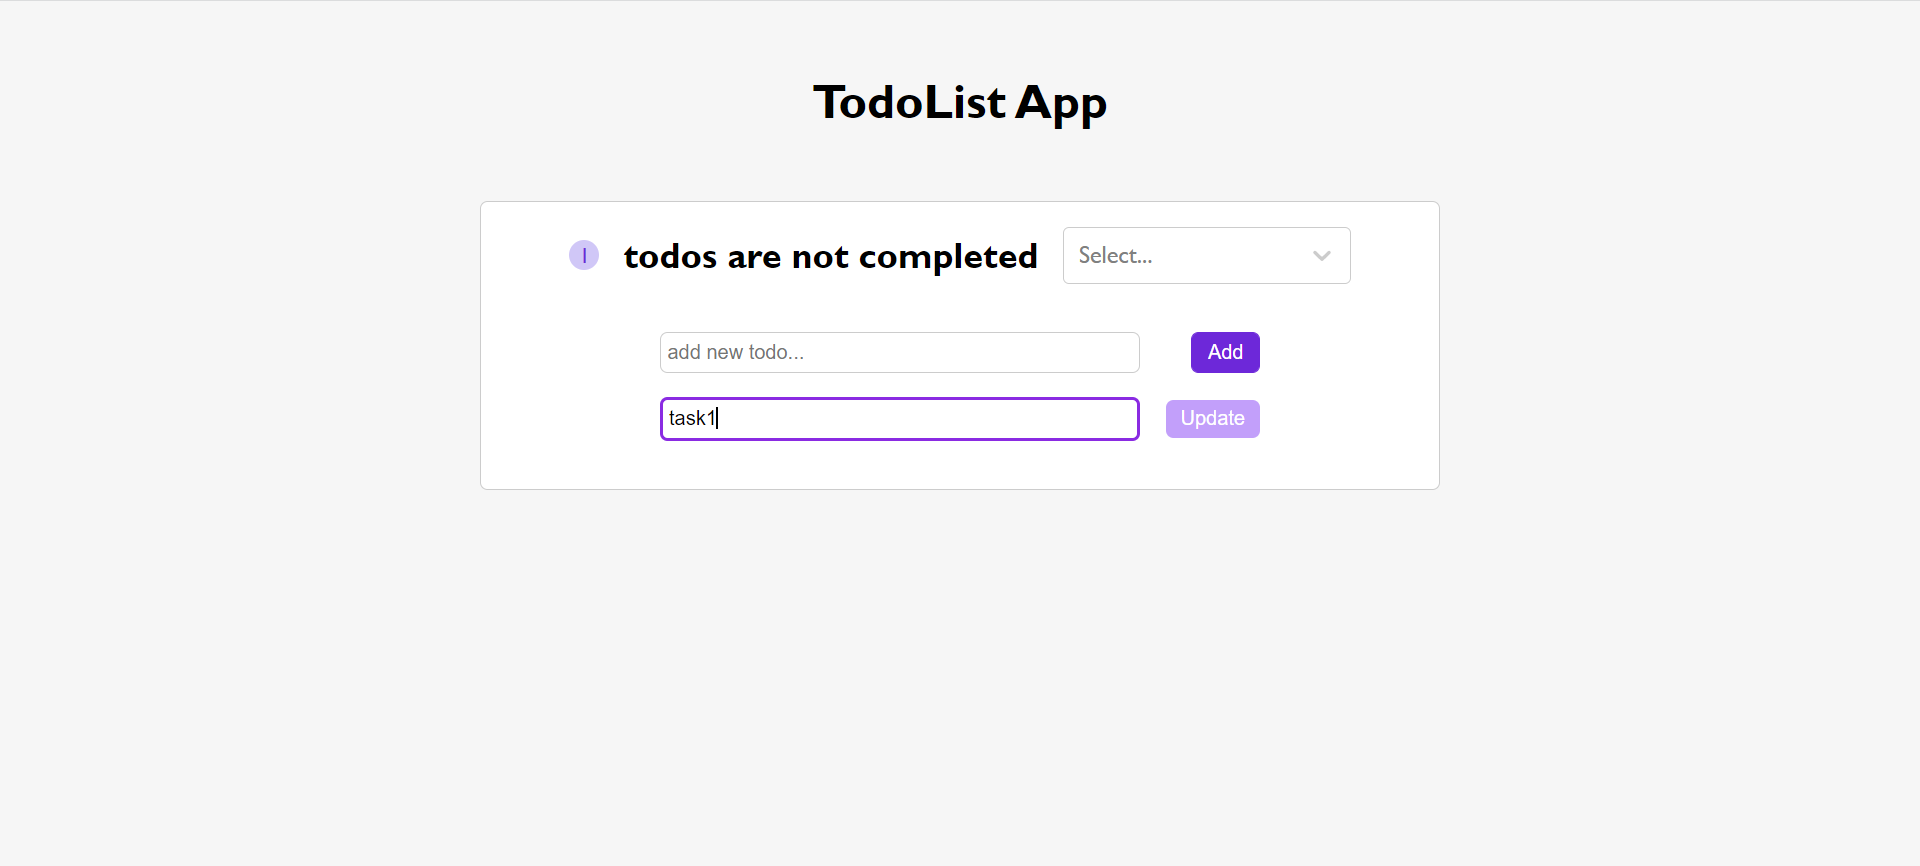
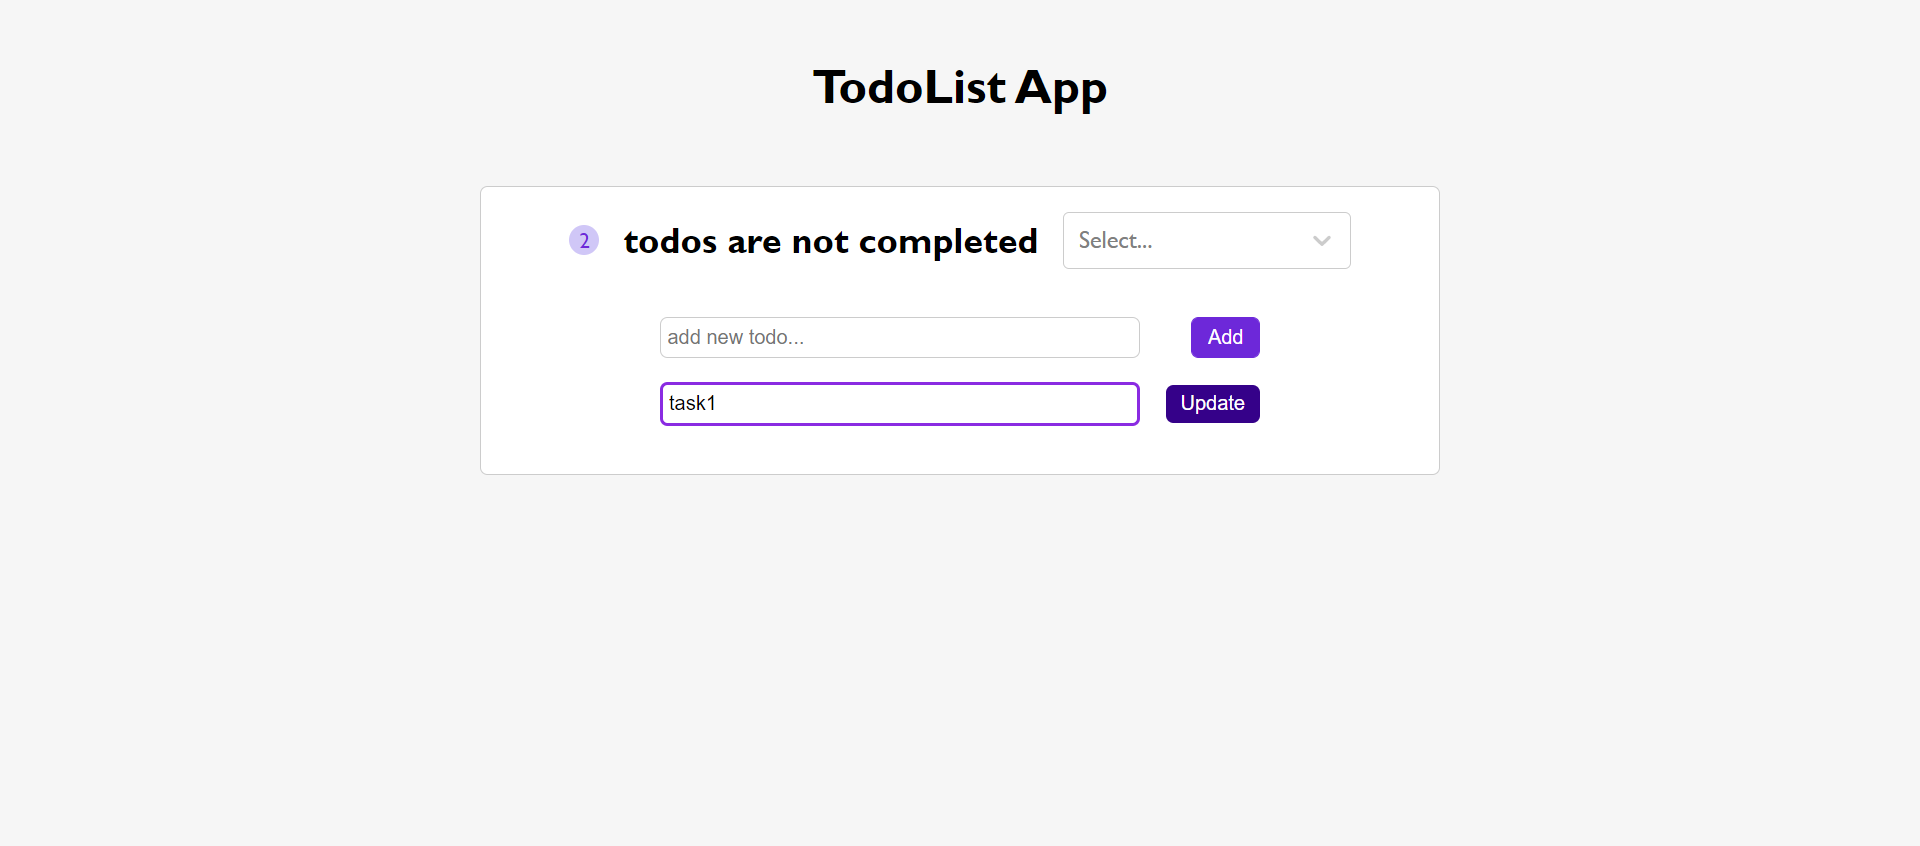
add some small improvements

Changed region(s): [[0.3438, 0.3688, 0.6562, 0.5225], [0.4062, 0.0615, 0.5938, 0.1537], [0.2812, 0.2459, 0.5938, 0.3073]]

diff --git a/src/components/TodoForm.module.css b/src/components/TodoForm.module.css
@@ -33,7 +33,7 @@
 
 .updateTodo{
   color: #fff;
-  background-color: #c29ffa;
+  background-color: #350189;
   border: none;
 }
 
